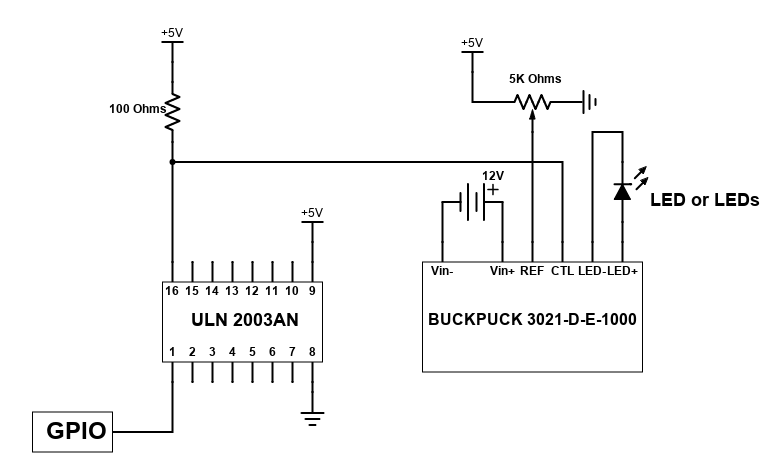
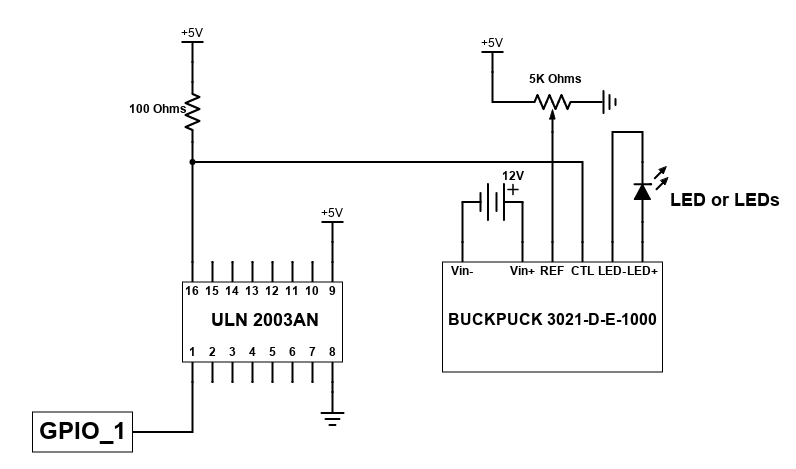
1

diff --git a/proyecto40/proyecto40.html b/proyecto40/proyecto40.html
@@ -48,8 +48,10 @@
 	<p> Hay algunos puntos a tener en este programa: </p>	
 	
 	<ul>			
-		<li> Los diagramas de conexiones, solo muestran la conexión de un único GPIO el cual está asociado a un único usuario, si la intención es tener los tres usuarios hay que triplicar las conexiones presentadas una para cada usuario. </li>			
-		<li> El driver que se usa para controlar los LEDs (BUCKPUCK 3021-D-E-1000)    </li>			
+		<li> Los diagramas de conexiones, solo muestran la conexión de un único GPIO_1 el cual está asociado a un único usuario, si la intención es tener los tres usuarios hay que triplicar las conexiones presentadas una para cada usuario. </li>	
+		
+				
+		<li> El driver que se usa para controlar los LEDs es: BUCKPUCK 3021-D-E-1000    </li>			
 		<li>  </li>	
 	</ul>	
 	
@@ -64,7 +66,7 @@
 	<br>
 	<br>
 
-	<img id="imagen1" src="proyecto40imagenes/proyecto 40-1.png" alt="ima1" width="776" height="469">
+	<img id="imagen1" src="proyecto40imagenes/proyecto 40-1.png" alt="ima1" width="796" height="469">
 	
 	<br>
 	<br>
